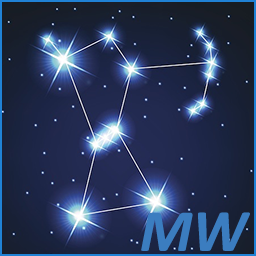
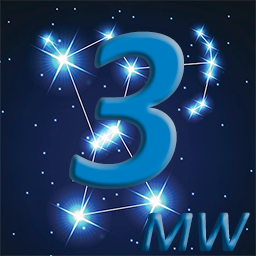
update docs

diff --git a/docu/installation.md b/docu/installation.md
@@ -1,14 +1,19 @@
 ## Installation of MountWizzard
 
-Please read the following parts to be sure to make the right steps for the successful installation of MountWizzard. If you
-have problems, the right spot where to post messages is the 10micron software developer forum on: http://www.10micron.eu/forum/viewforum.php?f=18.
-Please take into account that I'm doing the software as a hobby and you can't expect the support you will have on paid software :-)
+Please read the following parts to be sure to make the right steps for the successful installation of
+MountWizzard. If you have problems, the right spot where to post messages is the 10micron software
+developer forum on: http://www.10micron.eu/forum/viewforum.php?f=18. Please take into account that I'm
+doing the software as a hobby and you can't expect the support you will have on paid software :-)
 
 ### Where to find the Application ?
 
-The application as well as this documentation and the software code itself is hosted on github: https://github.com/mworion/mountwizzard.
-You will find the readme in the main page, which also directs to the extended documentation. The interesting part for downloading the
-application is the subdirectory /dist in github. The page is looking like the following example and the /dist folder is marked red:
+The application as well as this documentation and the software code itself is hosted on github:
+
+https://github.com/mworion/mountwizzard3.
+
+You will find the readme in the main page, which also directs to the extended documentation. The
+interesting part for downloading the application is the subdirectory /dist in github. The page is
+looking like the following example and the /dist folder is marked red:
 
 <img src="pics/github_dist.png"/>
 
@@ -16,36 +21,53 @@ If you choose the /dist folder, you could see the application files for download
 
 <img src="pics/github_dist_files.png"/>
 
-You will normally see 4 application files: there are the released ones (in the example above version v2.2) and the latest beta version
-(in the example v2.3.4). Please remember that even version numbers (like 2.2.x) are release versions and uneven numbers (like 2.3.x)
-are beta ones. For betas in general: please provide detailed feedback including tests so that it enables others to participate in
-improving MountWizzard as well.
+You will normally see 4 application files: there are the released ones (in the example above version v3.0)
+and the latest beta version. Please remember that even version numbers (like 2.2.x) are release versions
+and uneven numbers (like 2.3.x) are beta ones. For betas in general: please provide detailed feedback
+including tests so that it enables others to participate in improving MountWizzard as well.
 
-
-There are basically two versions of each release: a version which is called mountwizzard_vx.y.z and a second version called
-mountwizzard-console_vx.y.z. Both of them share the same functionality. The only difference is that the console version show in addition
-to the MountWizzard windows a command window, where the pyinstaller bootloader writes his output to. So in case you have troubles
-starting MountWizzard, please start the console version and save the output of the command window for further investigations.
+There are basically two versions of each release: a version which is called mountwizzard_vx.y.z and a
+second version called mountwizzard-console_vx.y.z. Both of them share the same functionality. The only
+difference is that the console version show in addition to the MountWizzard windows a command window,
+where the pyinstaller bootloader writes his output to. So in case you have troubles starting MountWizzard,
+please start the console version and save the output of the command window for further investigations.
 
 So the best way is to download both versions (pure and console) to you computer.
+
 #### Reminder: As I am currently not able to offer signed applications, please ensure virus checking on your side for your own safety!
 Before I put the application to github they are OK, but you never know.
 
 ### Compatibility
-Actually the application package ist tested and verified to be able to run in win7 and win10 operating systems. Both 32bit and 64bit are
-supported. The bundle itself contains only 32bit runtime libraries. Older versions like vista have not been tested successful.
+Actually the application package ist tested and verified to be able to run in win7 and win10 operating
+systems. Both 32bit and 64bit are supported. The bundle itself contains only 32bit runtime libraries.
+Older versions like vista have not been tested successful.
 
 ### Preparation on your computer
 #### ASCOM framework
-MountWizzard runs with ASCOM 6.2 and 6.3. You have to install ASCOM Framework in advance to be able to run MountWizzard. If you didn't
-already install the ASCOM Framework on you computer for astronomy use, please do so now. You will find the download at: http://ascom-standards.org
-If you would like to test MountWizzard in simulation mode, please choose the .NET versions for telescope and dome simulator:
+MountWizzard runs on windows with ASCOM 6.2 and 6.3.  If you didn't already install the ASCOM Framework
+on you windows computer for astronomy use, you can do it now. You will find the download at:
+http://ascom-standards.org.
 
-<img src="pics/ascom_telescope_simulator.png"/><img src="pics/ascom_dome_simulator.png"/>
+#### INDI framework
+On other platforms (but on windows as well you might use the INDI framework (http://indilib.org).
+There is no need for doing any install as long as you have an INDI server in your setup already running.
+You should know it's IP address. That's all.
 
-Some older stuff won't work properly. If you would like to use the ASCOM simulation for the camera as well, please use the camera V2 simulator
-and keep the resolution of the camera simulator with 800x600 pixel (default). With that size, MountWizzard will recognize simulation mode for
-the camera as well.
+#### Simulation mode
+There is the question is there any simulation mode for your software. The answere is yes. There is a
+limited simulation mode running if you are using the INDI framework and having an INDI server setup
+with CCD Simulator, TelescopeSimulator running. This setup could be used without mount connection to test
+imaging. If you would like to test modeling, you need a real moutn connection and the mount will actually
+move !!!
+
+#### Astrometry.Net plate solving
+As in windows environment you might use the plate solver of your favorite imaging program through
+MountWizzard, this could not be done if ou are on INDI only. MountWizzard uses the Astrometry.net service
+instead. The service could be installed locally or you are using the online version at
+http://nova.astrometry.net. In the latter case, please register and get your personal API key. Please
+remind that you need for the online solver an internet connection and it's definitly slower than any local
+plate solving program.
+
 
 #### Preparing local working directory
 If you would like to use MountWizzard on you astro imaging computer, it makes a lot of sense to create a working directory of your choice and

diff --git a/docu/home.md b/docu/home.md
@@ -1,29 +1,49 @@
-## <img src="pics/mw.png" width='64' height='64'/> Documentation and Handbook for Mountwizzard 2.4
+## <img src="pics/mw.png" width='64' height='64'/>Documentation and Handbook for Mountwizzard 3.0
 
-MountWizzard is a open source software for adding features and functions for astronomers, who are using a 10micron mount.
+MountWizzard is a open source software for adding features and functions for astronomers,
+who are using a 10micron mount. MountWizzard is written in python and uses some other astronomy
+and utility packages (e.g. PyQt5, astropy,...). As python and Qt is available on multiple platforms,
+so does MountWizzard. Actually with python 3.6.4 and PyQt5.10 you could use Mountwizzard on Windows,
+Linux and Mac OS.
 
-MountWizzard is written in python. So in the past there was the need to install python an a lot of more packages to
-make MountWizzard run. This moved ahead using the PIP installer, which is provided by the python community
-(https://packaging.python.org/installing/). But anyway installation wasn't that easy.
-Since Julien, who helped me to develop the interface to TheSkyX, proposed to move to pyinstaller,
-life for installation get much more easy, because the whole bundle (including the python and all related
-packages) comes now as a single EXE file. Many thanks for the development community of pyinstaller: http://www.pyinstaller.org.
-It still took some time, and there might still be some problems to solve, so far it works great.
+The straight forward way of doing the install for experienced users is to have python installed on
+your computer and use pip installer for all other things. Since Julien, who helped me to develop the
+interface to TheSkyX, proposed to move to pyinstaller, life for installation get much more easy,
+because the whole bundle (including the python and all related packages) comes now as a single EXE
+file. for windows, which includes. Many thanks for the development community of pyinstaller:
+http://www.pyinstaller.org. It still took some time, and there might still be some problems to
+solve, so far it works great.The running performance in both cases is the same, but the self
+extracting will take some seconds to start.
 
+MountWizzard supports tooltips. So hopefully if you don't get an idea, whats is going to happen,
+just put you mouse above a field or button and you will see the tooltip!
+
+### Overview
+To get a first impression after start, please have a look to the [main screens and the gui](overview.md)
+MountWizzard is using and which windows you will experience from the beginning on.
 ### Installation
 Please look to [installation procedures](installation.md) for detailed information, what and when to do.
-### Overview
-To get a first impression after start, please have a look to the [main screens and the gui](overview.md) MountWizzard is using.
-### First Steps
-[First steps in MountWizzard](firststeps.md) are explained here. And the link to [How to model](firststeps3.md) for the quick ones.
 ### Setting up MountWizzard
-All necessary [configuration of MountWizzard](settings.md) are explained.
+All necessary steps for the [configuration of MountWizzard](settings.md) are explained.
 ### Setting up my gear
-All necessary [steps during setup](./setup_gear/setup_gear.md) are explained.
-### Workflow of MountWizzard for modeling:
-A first good view of the modeling workflow is shown in the [Modeling Workflow Chart](modeling_workflow.md)
+Based on my equimpment, i tried to explain what to do for an astronomy imaging setup. There are a lot of
+ possibilities to do this and I'm happy about any hint you give me.
+ [Stepping thourg my personal setup](./setup_gear/setup_gear.md)
 
-MountWizzard supports tooltips. So hopefully if you don't get an idea, whats is going to happen, just put you mouse above
-a field or button and you will see the tooltip!
+### Remarks about model building
+As there was (and is) ModelMaker from Per in the past (btw which influenced me to buy the right mount)
+some more solutions like ModelCreator from Martin happened. I'm doing MountWizzard work the way like I
+use it personally, but if there are ideas which should be relized from users side, please let me know.
+
+This said walk a different path in modeling for 10micron mount than in the past. There is always the first
+step by using 3 base point for the start. There is no reason about that but the fact that you need at least
+3 stars to buld a first model to get some information about you polar alignment etc. But there could be even
+more of them to get a better picture of your actual setup. Others (like me) use fixed piers with good
+markers on it and with the quality of a good model I don't need a frist setup for alignment, I just want
+to get a new model. Fro that reason I splitted the workflow into two parts: The Initial Model (for the
+first use case) and the Full Model (for the second one). Another difference you might discover: I do not
+build the model step by step over all the stars, I just make all the images, solve them an than process
+them to the mount. That said you can redo any model making session just with the data save on your computer.
+
 
 

diff --git a/docu/overview.md b/docu/overview.md
@@ -1,35 +1,33 @@
 ## Overview
 ### Main Screen
 
-MountWizzard opens of a set of windows depending on the use case you would like to follow. The main windows opens when started,
-the other windows could be opened when haven the right use case. E.g. Modeling Plot Window could be opened from
-["Make Mount Model"](firststeps3.md) Menue, the Analyse Window could be opened from ["Model Analyse"](firststeps5.md). MountWizzard
-saves the status of the windows. So once opened, after the next start windows will automatically opened accordingly. MountWizzard
-stores the positions of the windows as well.
+MountWizzard opens of a set of windows depending on the use case you would like to follow. The main windows
+opens when started, the other windows could be opened at any time. MountWizzard saves the status and positions
+of the windows. So once opened, after the next start windows will automatically opened accordingly.
 
-There is one topic to take care of: the gui can't react on different DPI resolution settings in windows environment. Please keep them
-to 100% as default, otherwise length of texts etc. might not fit in the surrounding boxes. Sorry for that, but it's a bunch of work
-to make this happen, and there is roughly any strong request for it.
+There is one topic to take care of: the gui can't react on different DPI resolution settings in windows
+environment. Please keep them to 100% as default, otherwise length of texts etc. might not fit in the
+surrounding boxes. Sorry for that, but it's a bunch of work to make this happen, and there is roughly any
+strong request for it. First, there is the main screen:
 
-First, there is the main screen:
+<img src="pics/main_gui.png"/>
 
-<img src="pics/mainscreen.png"/>
+### Hemisphere Window
+This is the center of defining and watching your setup of model making. You see a hemisphere, where your horizon
+mask is shown , the model points are plottet, where you could see model making progress and you can edit model
+points and the horizon mask as well.
 
-### Modeling Plot Window
-Mountwizzard can show th so called "Modeling Plot Window" where you can follow and manage in detail the modeling process:
-
-<img src="pics/modelingplotwindow.png"/>
+<img src="pics/hemisphere_window.png"/>
 
 ### Analyse Window
 After modeling you can do some analytics of your model runs. This is mainly located in the "Analyse" window:
 
-<img src="pics/analysewindow.png"/>
+<img src="pics/analyse_window.png"/>
 
 ### Image Window
-If you opened the image windows, all images taken through MountWizzard will be show. You can take as well a single shot of your
-own. Single shots are disabled during model building.
+If you opened the image windows, all images taken through MountWizzard will be shown. You can take as well a
+single shot of your own or plate solve an image if present. Single shots are disabled during model building.
 
-<img src="pics/imagewindow.png"/>
-
+<img src="pics/image_window.png"/>
 
 [Back to Home](home.md)
